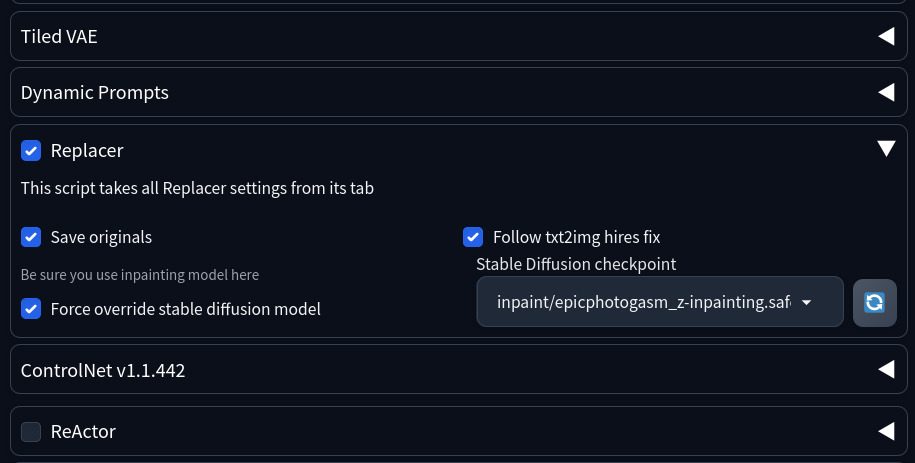
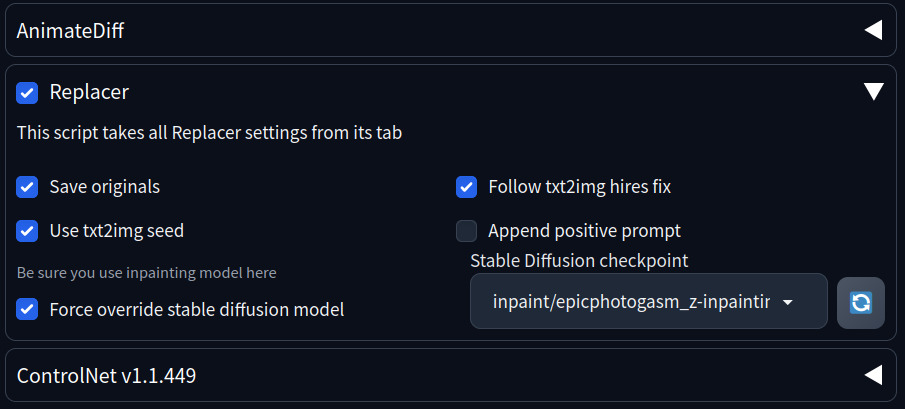
override_seed and append_positive_prompt options in img2img/txt2img script

diff --git a/scripts/replacer_script.py b/scripts/replacer_script.py
@@ -48,7 +48,13 @@ class ReplacerScript(scripts.Script):
                     gr.Markdown(f'This script takes all {EXT_NAME} settings from its tab')
                 with gr.Row():
                     save_originals = gr.Checkbox(True, label="Save originals", elem_id=f'replacer_{tabName}_save_originals')
-                    follow_txt2img_hires_fix = gr.Checkbox(True, label="Follow txt2img hires fix", elem_id=f'replacer_{tabName}_follow_txt2img_hires_fix',visible=not is_img2img)
+                    follow_txt2img_hires_fix = gr.Checkbox(True, label="Follow txt2img hires fix",
+                        elem_id=f'replacer_{tabName}_follow_txt2img_hires_fix',visible=not is_img2img)
+                with gr.Row():
+                    override_seed = gr.Checkbox(True, label=f"Use {tabName} seed",
+                        elem_id=f'replacer_{tabName}_override_seed', tooltip=f"If false, seed in {EXT_NAME} tab is used")
+                    append_positive_prompt = gr.Checkbox(False, label=f"Append positive prompt", elem_id=f'replacer_{tabName}_append_positive_prompt',
+                        tooltip=f"If true, positive prompt from generation will be appended at the beginning of {EXT_NAME} tab's positive prompt")
                 with gr.Row():
                     force_override_sd_model = gr.Checkbox(label='Force override stable diffusion model',
                         value=True, elem_id=f"replacer_{tabName}_force_override_sd_model",
@@ -133,6 +139,8 @@ class ReplacerScript(scripts.Script):
                 force_override_sd_model,
                 force_sd_model_checkpoint,
                 follow_txt2img_hires_fix,
+                override_seed,
+                append_positive_prompt,
             ]
 
             return inputs + main_tab_inputs
@@ -146,6 +154,8 @@ class ReplacerScript(scripts.Script):
         force_override_sd_model,
         force_sd_model_checkpoint,
         follow_txt2img_hires_fix,
+        override_seed,
+        append_positive_prompt,
 
         detectionPrompt,
         avoidancePrompt,
@@ -226,6 +236,8 @@ class ReplacerScript(scripts.Script):
         self.force_override_sd_model = force_override_sd_model
         self.force_sd_model_checkpoint = force_sd_model_checkpoint
         self.follow_txt2img_hires_fix = follow_txt2img_hires_fix
+        self.override_seed = override_seed
+        self.append_positive_prompt = append_positive_prompt
 
 
         cn_args, soft_inpaint_args = replacer_extensions.prepareScriptsArgs(scripts_args)
@@ -316,6 +328,10 @@ class ReplacerScript(scripts.Script):
             self.gArgs.sd_model_checkpoint = self.force_sd_model_checkpoint
         if self.follow_txt2img_hires_fix and hasattr(p, 'enable_hr'):
             self.gArgs.pass_into_hires_fix_automatically = p.enable_hr
+        if self.override_seed:
+            self.gArgs.seed = processed.all_seeds[0]
+        if self.append_positive_prompt:
+            self.gArgs.positivePrompt = processed.prompt + ", " + self.gArgs.positivePrompt
 
         saveDir = p.outpath_samples if self.save_samples else None
         saveToSubdirs = True
